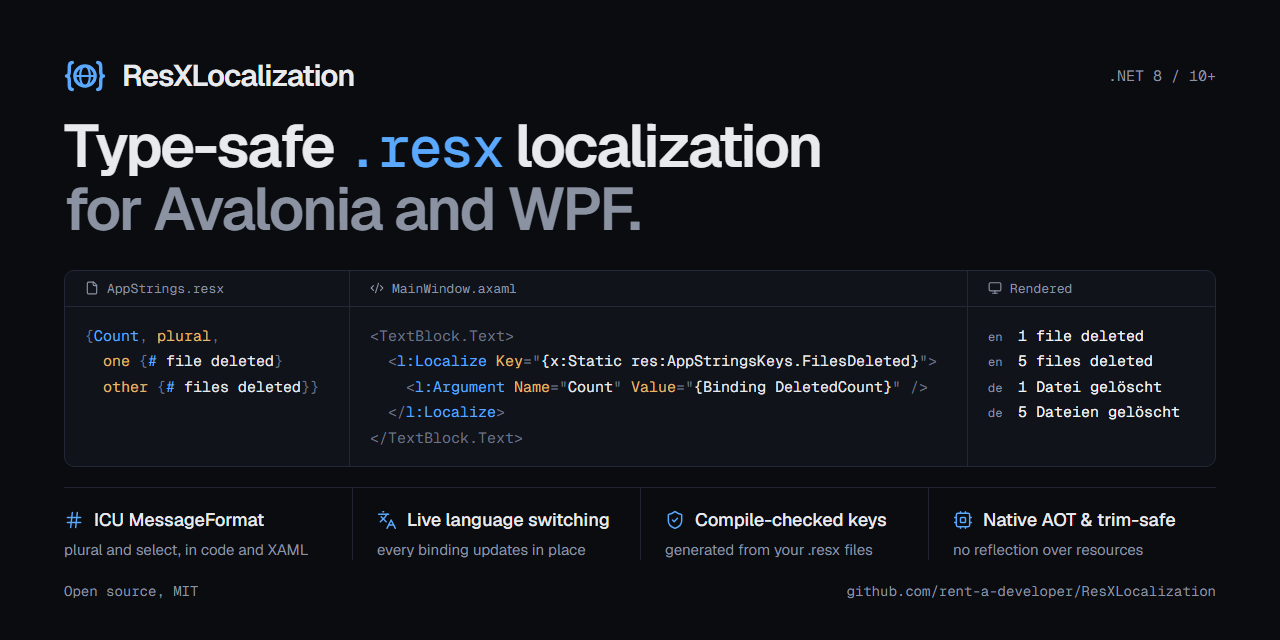
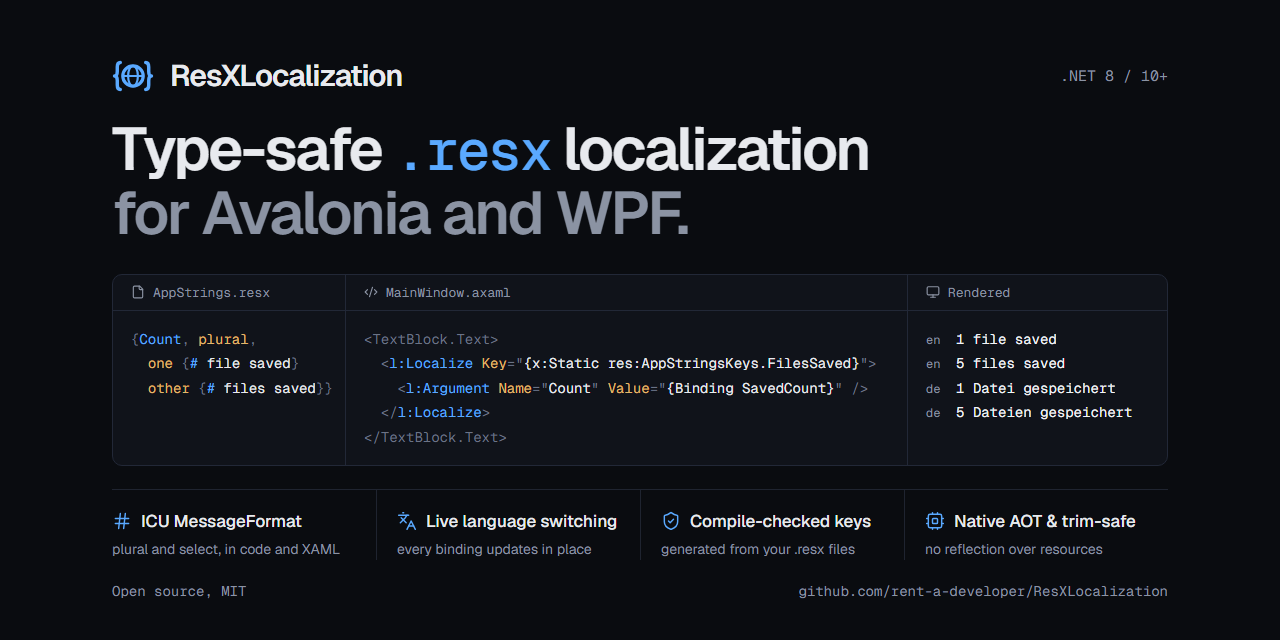
docs: updated social preview image

diff --git a/assets/social-preview.html b/assets/social-preview.html
@@ -3,6 +3,9 @@
   ResXLocalization - GitHub social preview (source of truth for social-preview.png)
 
   Canvas: exactly 1280 x 640 px (GitHub's recommended social preview size).
+  Safe area: GitHub and X show the full 2:1 image, but Reddit crops link previews to about 16:9
+          (roughly 70 px off each side) and Facebook/LinkedIn to 1.91:1 (about 30 px). Keep every
+          element inside --pad-x, which leaves a margin even after a 16:9 crop.
   Render: run render-social-preview.ps1 next to this file; it screenshots this page with
           headless Edge/Chrome into social-preview.png.
 
@@ -42,7 +45,7 @@
 
     /* Layout */
     --pad-top: 56px;
-    --pad-x: 64px;
+    --pad-x: 112px;           /* 16:9 crop removes ~71 px per side; this keeps ~40 px of margin after it */
     --pad-bottom: 40px;
     --gap-section: 28px;
   }
@@ -73,36 +76,36 @@
 
   /* Code panel: .resx value | XAML usage | rendered output */
   .panel {
-    display: grid; grid-template-columns: 284px minmax(0, 1fr) 248px;
+    display: grid; grid-template-columns: 232px minmax(0, 1fr) 260px;
     background: var(--surface); border: 1px solid var(--line-panel); border-radius: 10px; overflow: hidden;
     font-family: var(--font-mono);
   }
   .pane { display: flex; flex-direction: column; min-width: 0; }
   .pane + .pane { border-left: 1px solid var(--line-panel); }
   .pane-head {
-    display: flex; align-items: center; gap: 8px; padding: 9px 20px;
+    display: flex; align-items: center; gap: 8px; padding: 9px 18px;
     border-bottom: 1px solid var(--line-panel); font-size: 13px; color: var(--muted);
   }
   .pane-head svg { flex: none; }
-  .code { padding: 16px 20px; font-size: 15px; line-height: 1.7; color: var(--text); white-space: pre; }
+  .code { padding: 16px 18px; font-size: 14px; line-height: 1.75; color: var(--text); white-space: pre; }
   .code .p { color: var(--punct); }
   .code .k { color: var(--keyword); }
   .code .n { color: var(--accent); }
-  .output { padding: 16px 20px; font-size: 15px; line-height: 1.7; display: flex; flex-direction: column; }
+  .output { padding: 16px 18px; font-size: 14px; line-height: 1.75; display: flex; flex-direction: column; }
   .output div { display: flex; align-items: baseline; gap: 12px; }
-  .output .lang { font-size: 12px; color: var(--muted); width: 18px; }
-  .output .text { color: var(--text-strong); }
+  .output .lang { font-size: 12px; color: var(--muted); width: 18px; flex: none; }
+  .output .text { color: var(--text-strong); white-space: nowrap; }
 
   /* Feature row */
   .bottom { display: flex; flex-direction: column; gap: 22px; }
   .features { display: grid; grid-template-columns: repeat(4, minmax(0, 1fr)); border-top: 1px solid var(--line); }
-  .feature { display: flex; flex-direction: column; gap: 8px; padding: 20px 24px 0; }
+  .feature { display: flex; flex-direction: column; gap: 8px; padding: 20px 20px 0; }
   .feature:first-child { padding-left: 0; }
   .feature:last-child { padding-right: 0; }
   .feature + .feature { border-left: 1px solid var(--line); }
-  .feature-title { display: flex; align-items: center; gap: 10px; font-size: 18px; font-weight: 500; }
+  .feature-title { display: flex; align-items: center; gap: 9px; font-size: 17px; font-weight: 500; white-space: nowrap; }
   .feature-title svg { color: var(--accent); flex: none; }
-  .feature-desc { font-size: 15px; line-height: 1.4; color: var(--muted); }
+  .feature-desc { font-size: 14px; line-height: 1.4; color: var(--muted); }
 
   /* Footer */
   .footer { display: flex; align-items: center; justify-content: space-between; font-family: var(--font-mono); font-size: 14px; color: var(--muted); }
@@ -136,8 +139,8 @@
           <span>AppStrings.resx</span>
         </div>
 <div class="code"><span class="p">{</span><span class="n">Count</span><span class="p">,</span> <span class="k">plural</span><span class="p">,</span>
-  <span class="k">one</span> <span class="p">{</span><span class="n">#</span> file deleted<span class="p">}</span>
-  <span class="k">other</span> <span class="p">{</span><span class="n">#</span> files deleted<span class="p">}}</span></div>
+  <span class="k">one</span> <span class="p">{</span><span class="n">#</span> file saved<span class="p">}</span>
+  <span class="k">other</span> <span class="p">{</span><span class="n">#</span> files saved<span class="p">}}</span></div>
       </div>
 
       <div class="pane">
@@ -146,8 +149,8 @@
           <span>MainWindow.axaml</span>
         </div>
 <div class="code"><span class="p">&lt;TextBlock.Text&gt;</span>
-  <span class="p">&lt;</span><span class="n">l:Localize</span> <span class="k">Key</span><span class="p">="</span>{x:Static res:AppStringsKeys.FilesDeleted}<span class="p">"&gt;</span>
-    <span class="p">&lt;</span><span class="n">l:Argument</span> <span class="k">Name</span><span class="p">="</span>Count<span class="p">"</span> <span class="k">Value</span><span class="p">="</span>{Binding DeletedCount}<span class="p">" /&gt;</span>
+  <span class="p">&lt;</span><span class="n">l:Localize</span> <span class="k">Key</span><span class="p">="</span>{x:Static res:AppStringsKeys.FilesSaved}<span class="p">"&gt;</span>
+    <span class="p">&lt;</span><span class="n">l:Argument</span> <span class="k">Name</span><span class="p">="</span>Count<span class="p">"</span> <span class="k">Value</span><span class="p">="</span>{Binding SavedCount}<span class="p">" /&gt;</span>
   <span class="p">&lt;/</span><span class="n">l:Localize</span><span class="p">&gt;</span>
 <span class="p">&lt;/TextBlock.Text&gt;</span></div>
       </div>
@@ -158,10 +161,10 @@
           <span>Rendered</span>
         </div>
         <div class="output">
-          <div><span class="lang">en</span><span class="text">1 file deleted</span></div>
-          <div><span class="lang">en</span><span class="text">5 files deleted</span></div>
-          <div><span class="lang">de</span><span class="text">1 Datei gelöscht</span></div>
-          <div><span class="lang">de</span><span class="text">5 Dateien gelöscht</span></div>
+          <div><span class="lang">en</span><span class="text">1 file saved</span></div>
+          <div><span class="lang">en</span><span class="text">5 files saved</span></div>
+          <div><span class="lang">de</span><span class="text">1 Datei gespeichert</span></div>
+          <div><span class="lang">de</span><span class="text">5 Dateien gespeichert</span></div>
         </div>
       </div>
     </div>
